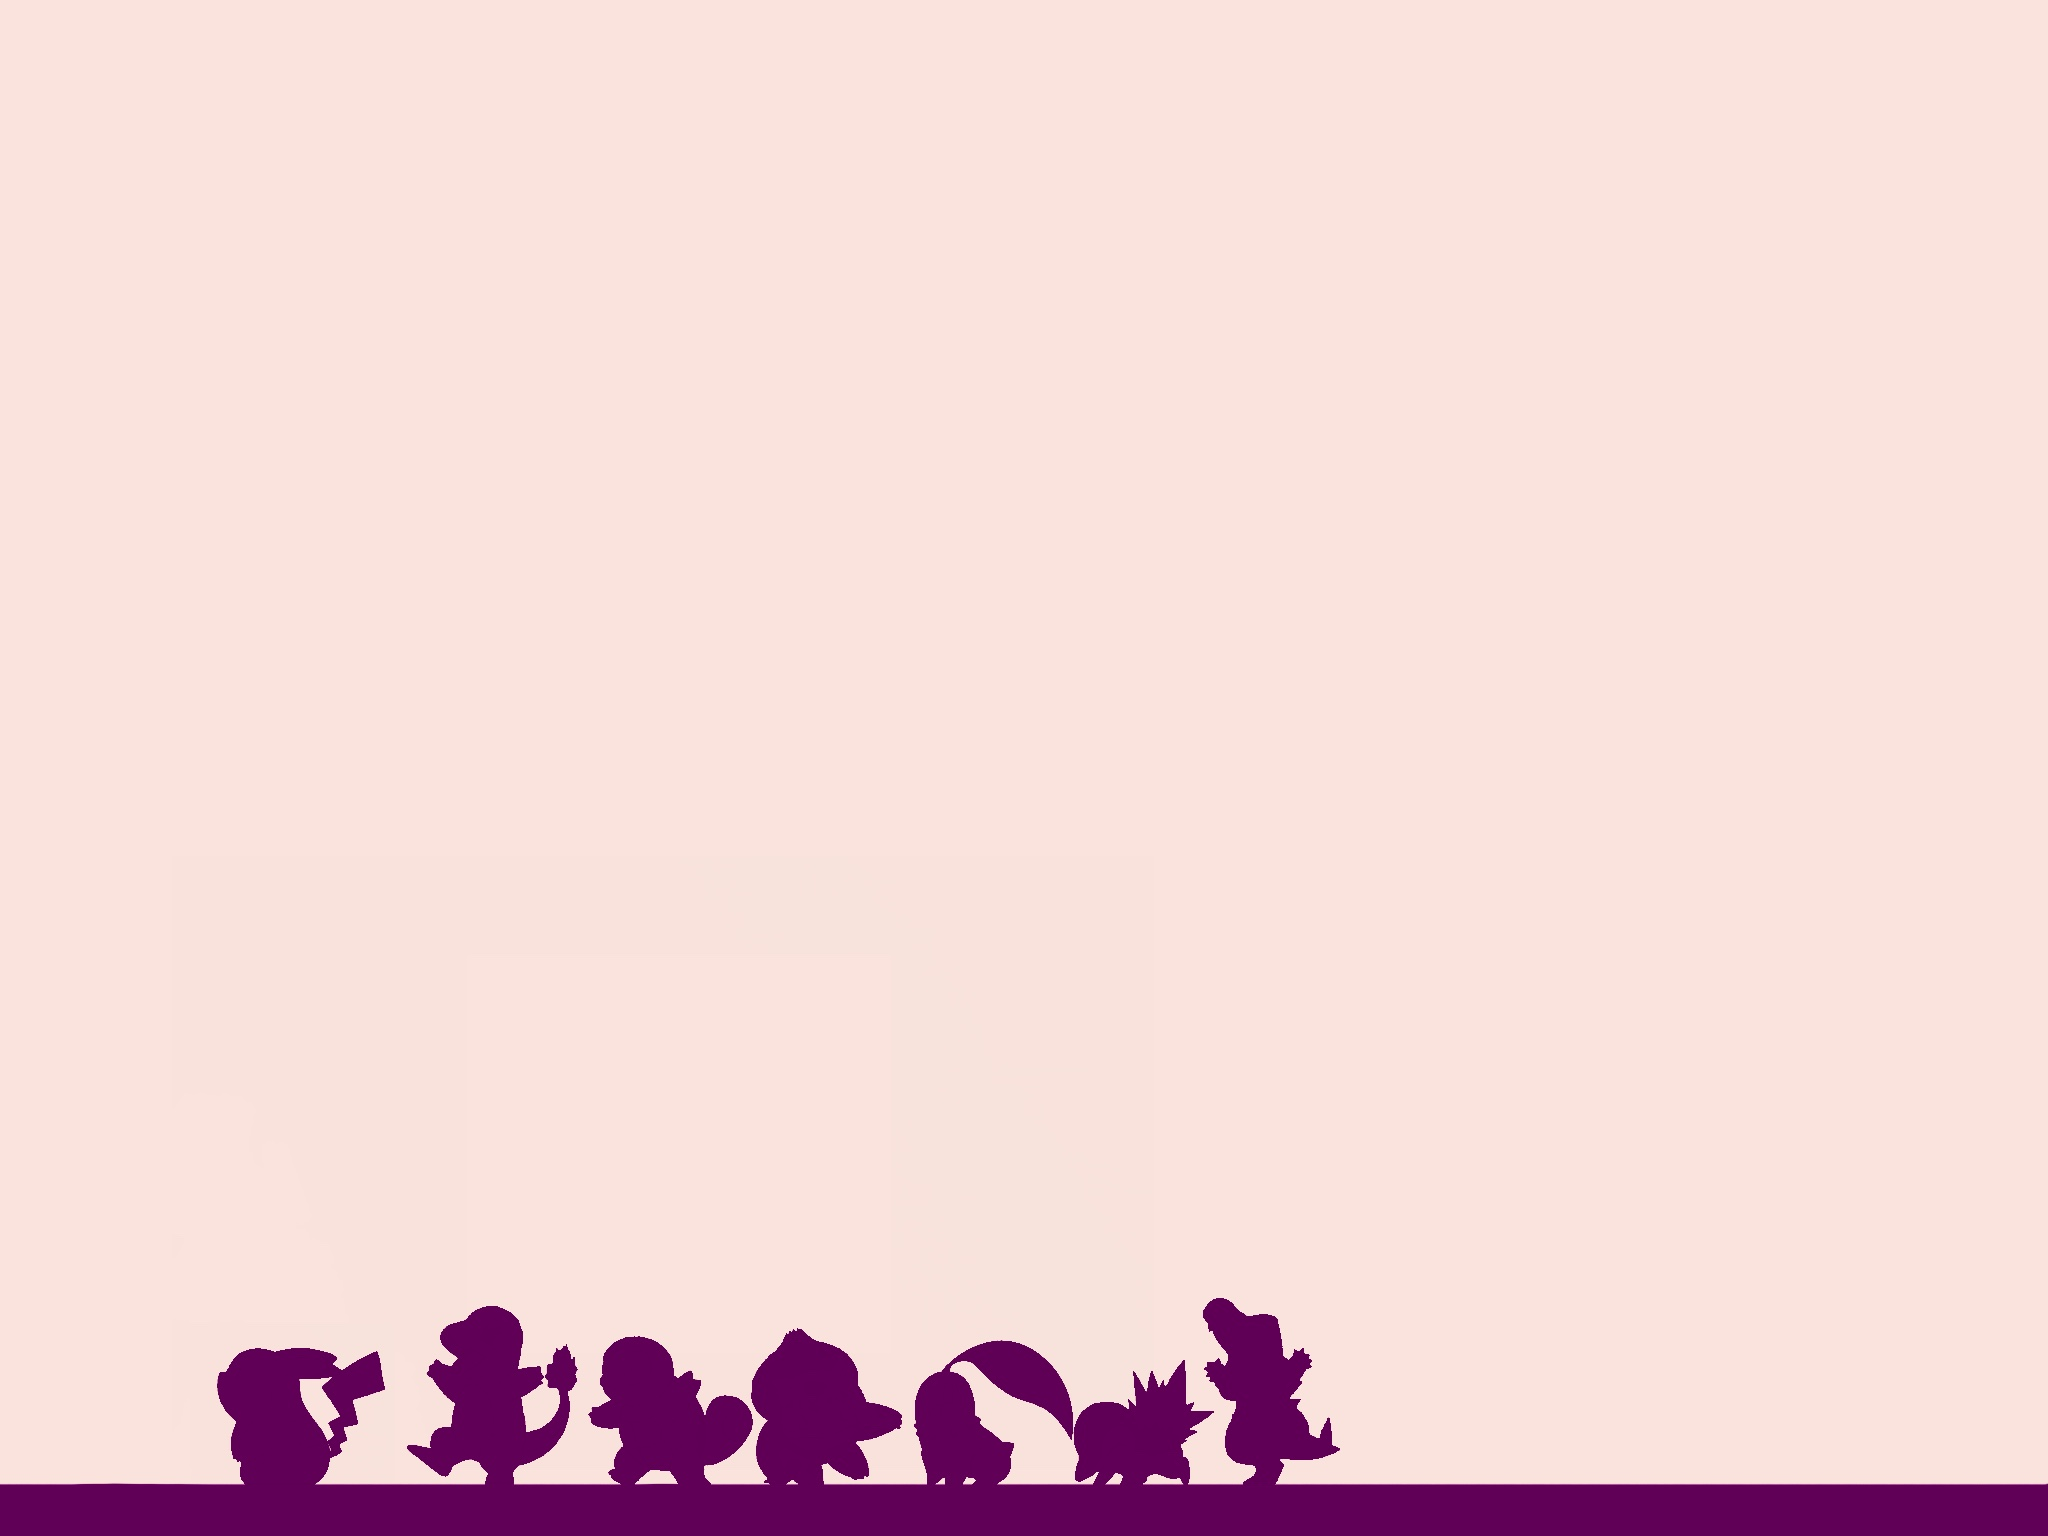
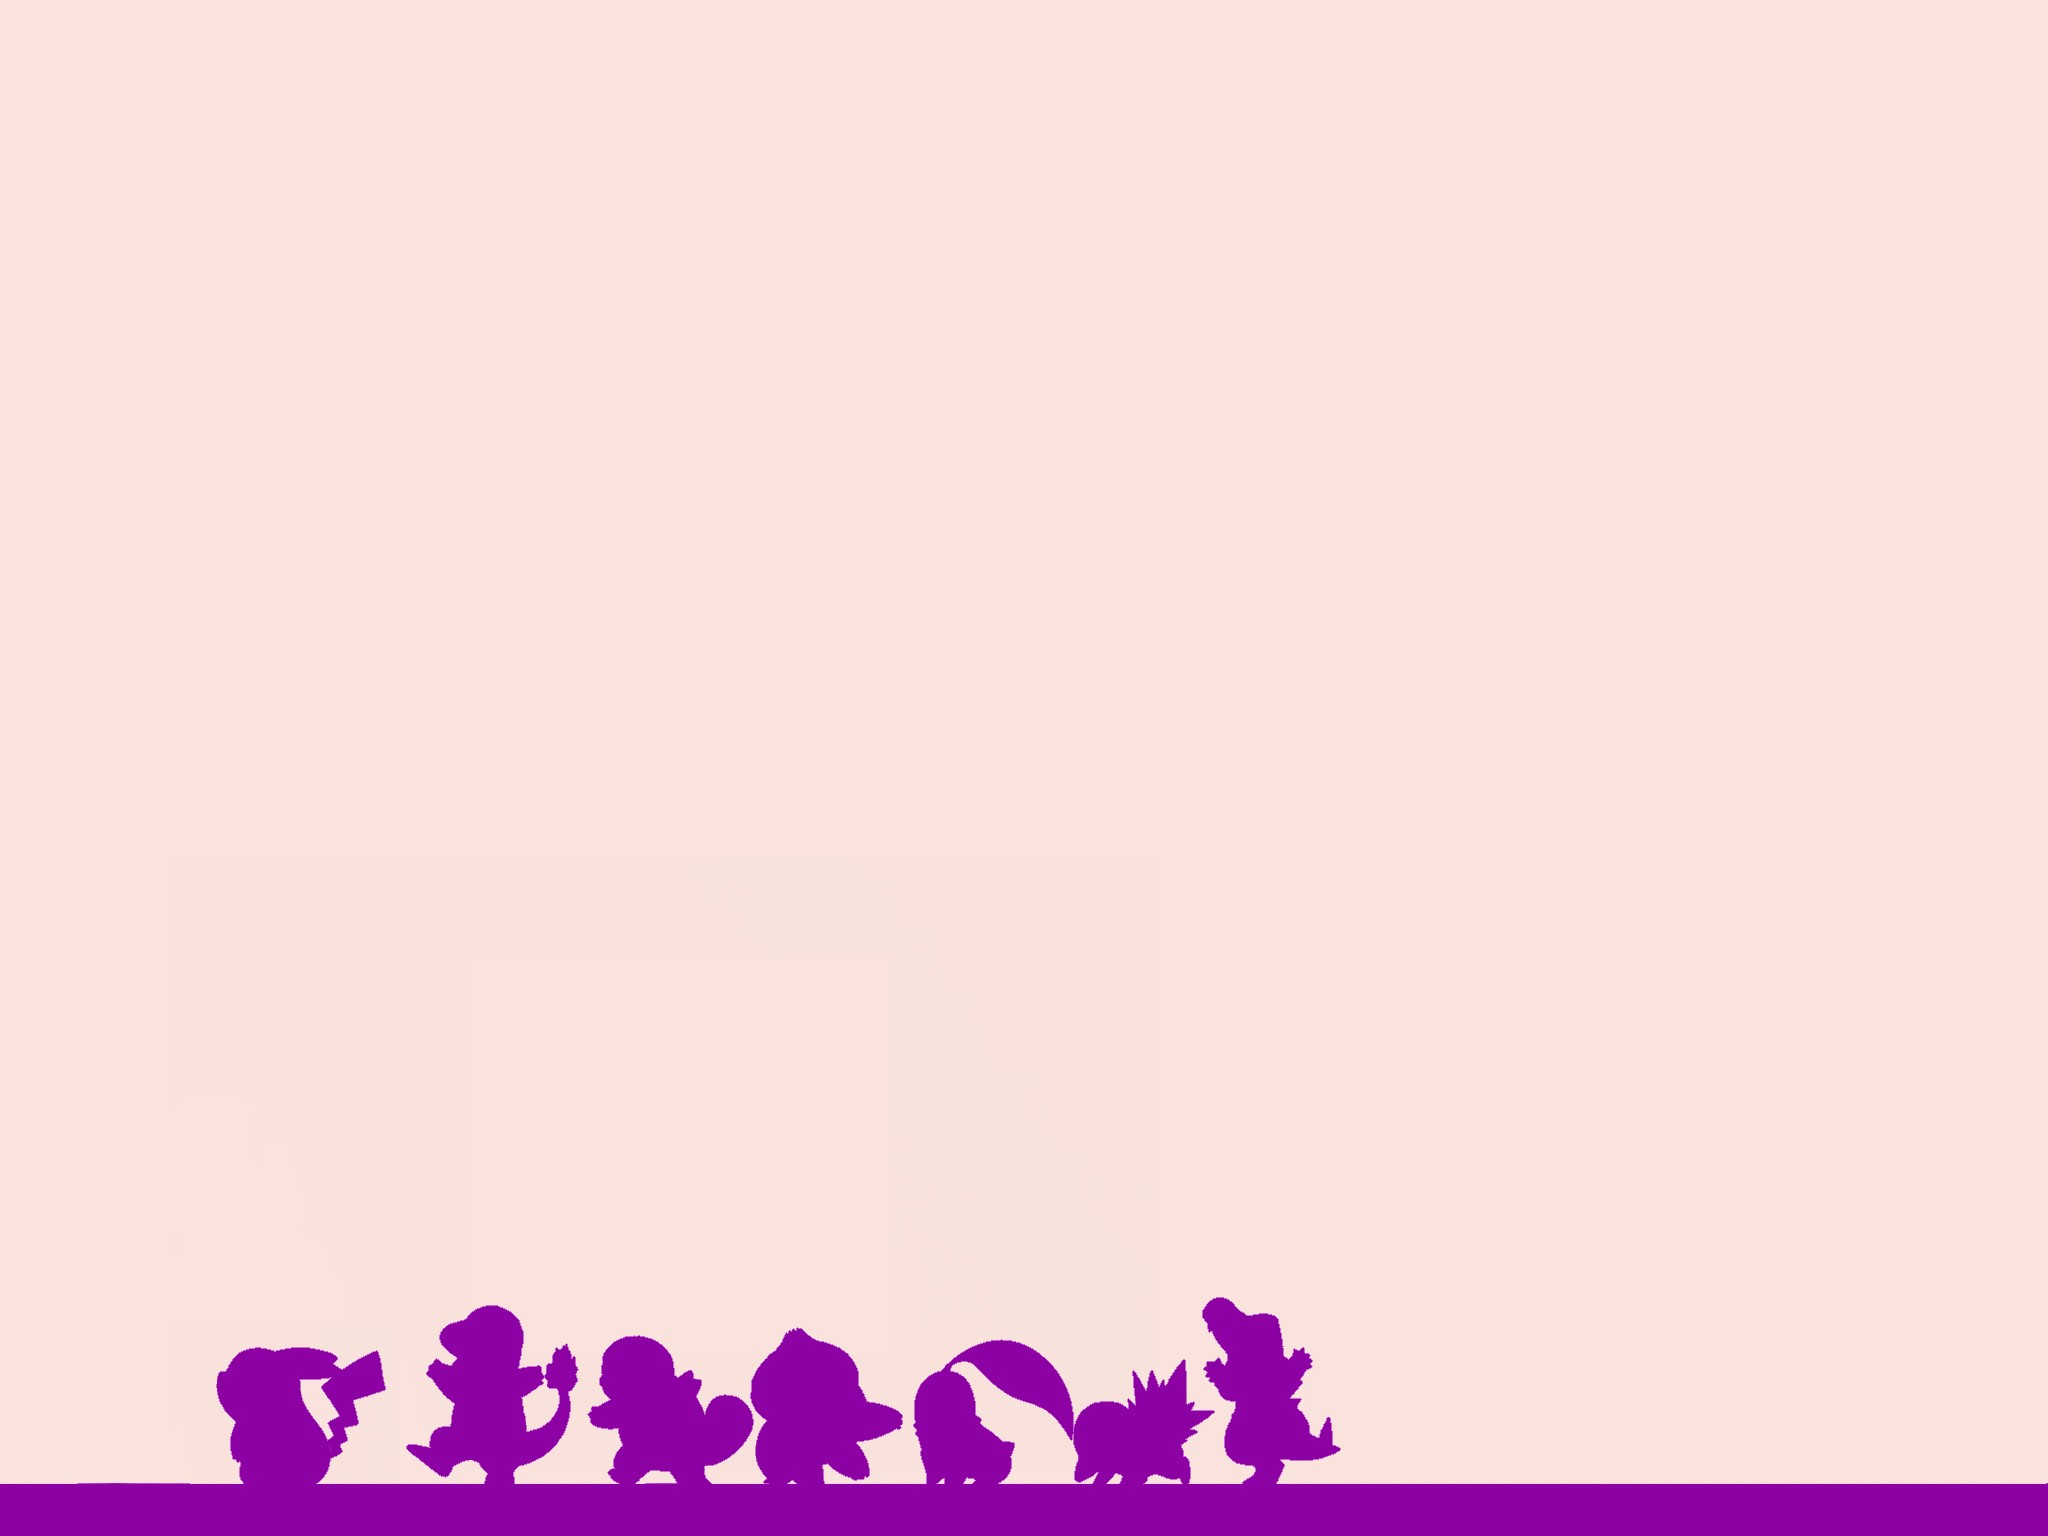
unifying background

Changed region(s): [[0.0, 0.8438, 1.0, 1.0]]

diff --git a/Frontend/pokemon/src/styles.css b/Frontend/pokemon/src/styles.css
@@ -1,6 +1,7 @@
 /* You can add global styles to this file, and also import other style files */
 
-html, body { height: 100%; }
+html, body { height: 100%; 
+    background-color: #8d00a4;}
 body { margin: 0; font-family: Roboto, "Helvetica Neue", sans-serif;
 color: white;}
 

diff --git a/Frontend/pokemon/src/app/app.component.css b/Frontend/pokemon/src/app/app.component.css
@@ -8,12 +8,10 @@
 
 .light{
     background-image: url("../assets/images/day.jpg");
-    background-color: #600057;
 }
 
 .dark{
     background-image: url("../assets/images/night.jpg");
-    background-color: #8d00a4;
 }
 
 .check{

diff --git a/Frontend/pokemon/src/app/components/trainers/trainers.component.css b/Frontend/pokemon/src/app/components/trainers/trainers.component.css
@@ -55,6 +55,7 @@
     background-color: #C05299;
     width: max-content;
     justify-self: center;
+    margin-bottom: 10px;
 }
 
 .card h2{
